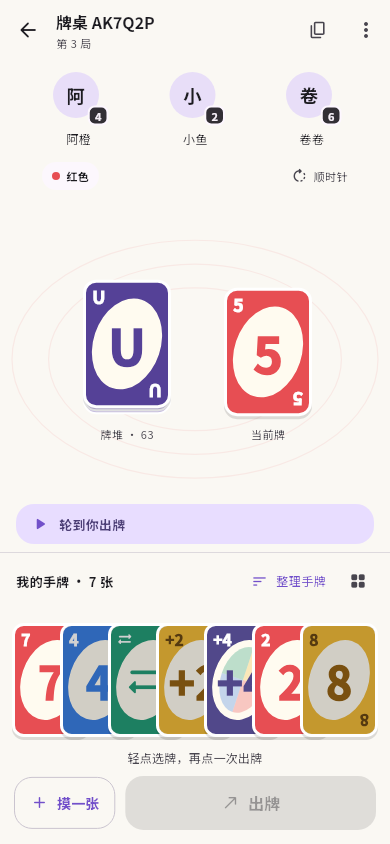
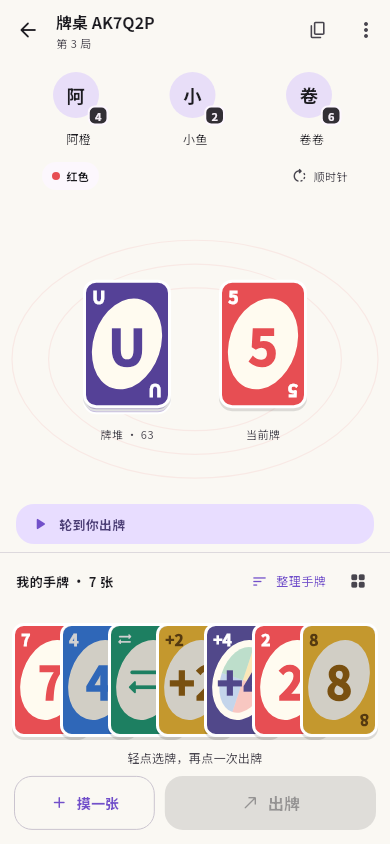
docs: refresh aligned table and pass button previews

diff --git a/docs/ui.md b/docs/ui.md
@@ -5,6 +5,7 @@
 <img src="images/table-dark.png" width="250" alt="深色牌桌">
 
 以上预览由 Flutter 界面以离线测试状态渲染。
+另见[小屏过牌状态](images/table-pass-small.png)。
 
 布局参考 [Unour 网页端](https://csac.chat/) 的玩家、牌堆和手牌位置关系，
 配色、牌面和控件继续使用应用的 Material You 风格。
@@ -12,6 +13,9 @@
 对手头像与剩余牌数排列在顶部，人数少时均匀分布，人数多时横向滚动。
 中央并排放置牌堆和当前牌，颜色与方向放在上方，回合提示放在手牌上方。
 桌面用淡色线条连接各区域，摸牌在左、出牌在右。UNO 按钮浮在中央，避免挤动手牌和操作区。
+牌堆与当前牌的牌面大小一致、上下边缘对齐，说明文字也处于同一水平线。
+摸牌后若服务端允许过牌，左侧按钮原位变为「过牌」，不在底部新增一行；
+按钮宽度和手牌位置保持不变。
 
 手牌等距横排，牌面保持竖直、局部重叠；390 宽度下可以同时看到七张牌，
 少量手牌居中，更多手牌横向滚动。选中只抬高并完整露出该牌，不改变牌宽、间距或邻牌位置，
@@ -19,7 +23,7 @@
 同一局中保留原有手牌顺序，新摸到的牌追加到末尾；「整理手牌」按颜色、数字与类型排列，
 并可切回原始顺序。网格按钮打开全部手牌，沿用当前整理方式。
 
-小屏采用较小的牌面；较大字体或额外的过牌、质疑按钮需要更多空间时，可纵向滚动。
+小屏采用较小的牌面；较大字体或额外的质疑按钮需要更多空间时，可纵向滚动。
 
 ## 动画
 
@@ -34,11 +38,12 @@
 
 ## 验证
 
-静态检查与 41 项测试通过。组件测试覆盖固定间距、选中时牌宽和邻牌位置不变、
+静态检查与 47 项测试通过。组件测试覆盖固定间距、选中时牌宽和邻牌位置不变、
 选中牌不被裁切、状态更新不打乱顺序、增减牌、整理与恢复、屏幕外选牌、相同牌面不重播、
 退场牌不可操作，以及动画途中开启减少动态效果。
 布局测试覆盖七张手牌可见、UNO 不挤动手牌、观战布局，以及 320×640、十位玩家、
 40 张手牌、1.6 倍字体和深浅主题。
+另检查两种手机尺寸的牌堆对齐，以及开关动画时摸牌／过牌原位切换、不增加纵向滚动。
 
 另已渲染检查首页、牌桌、选牌、设置、登录、加入牌桌、账户和结算页面。
 真实手机上的流畅度、触摸体验和真实牌局仍按 [验收清单](acceptance.md) 手动检查。

diff --git a/docs/acceptance.md b/docs/acceptance.md
@@ -34,6 +34,7 @@ Android keystore、iOS Team 和签名；开发签名不用于商店发行。
 - [ ] 自定义规则默认值、依赖开关、数字上下界、目录更新与错误提示。
 - [ ] 同色／同数出牌、Skip、Reverse、+2、万能牌与 +4 选色。
 - [ ] 摸牌后出牌／过牌、罚牌池、叠加与罚牌反转，以服务端规则为准。
+- [ ] 摸牌后「过牌」在原摸牌按钮位置显示，不新增一行，不挤动手牌或增加页面滚动。
 - [ ] +4 质疑成功／失败、最后一张 +4 的延迟结算。
 - [ ] UNO 两秒内成功、超时罚一张、不推进回合、网络重试不重复罚牌。
 - [ ] 第一次进入不重放旧 UNO；从后台恢复未处理窗口。
@@ -47,6 +48,7 @@ Android keystore、iOS Team 和签名；开发签名不用于商店发行。
 - [ ] 手牌固定间距、竖直横排；选中完整露出牌面，不改变牌宽或邻牌位置；屏幕外选牌自动滚动。
 - [ ] 整理手牌按颜色与数字／类型排列，保留选中牌；可恢复原始顺序，全部手牌网格顺序一致。
 - [ ] 对手头像和剩余牌数清楚，多人可横向滚动；UNO 提示不挤动手牌及底部按钮。
+- [ ] 小屏和常规屏的牌堆、当前牌大小相同、上下对齐，说明文字在同一水平线。
 - [ ] 系统减少动态效果、单独关闭音效和轻震动、前后台切换。
 - [ ] 摸牌、出牌、换回合及结算动画流畅；普通状态轮询不重播动画。
 - [ ] Android 安装包真机启动，iOS Xcode 构建及真机启动。
@@ -79,5 +81,7 @@ Android 使用开发签名，无需仓库 secrets；iOS 不使用签名证书。
 
 参照网页端位置关系的牌桌修订 `1df67be` 已通过静态检查与 41 项测试；
 最新布局预览见 [ui.md](ui.md)。上述 Actions 产物属于各自对应的历史提交。
+
+2026-10-29 的牌堆对齐及摸牌／过牌原位切换修订已通过静态检查与 47 项测试。
 
 网络错误退出登录时仍会清除本机凭证；服务端撤销是否成功以响应为准。
